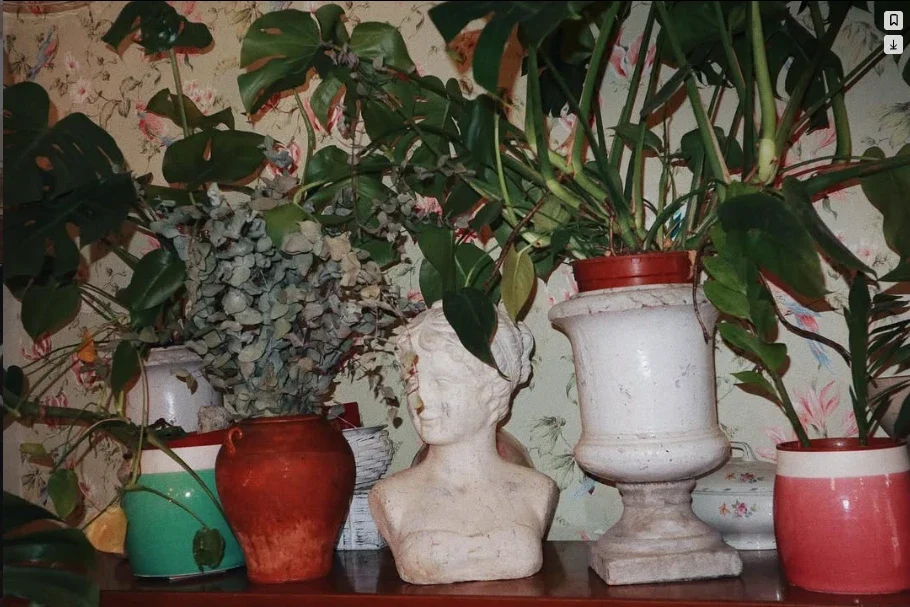
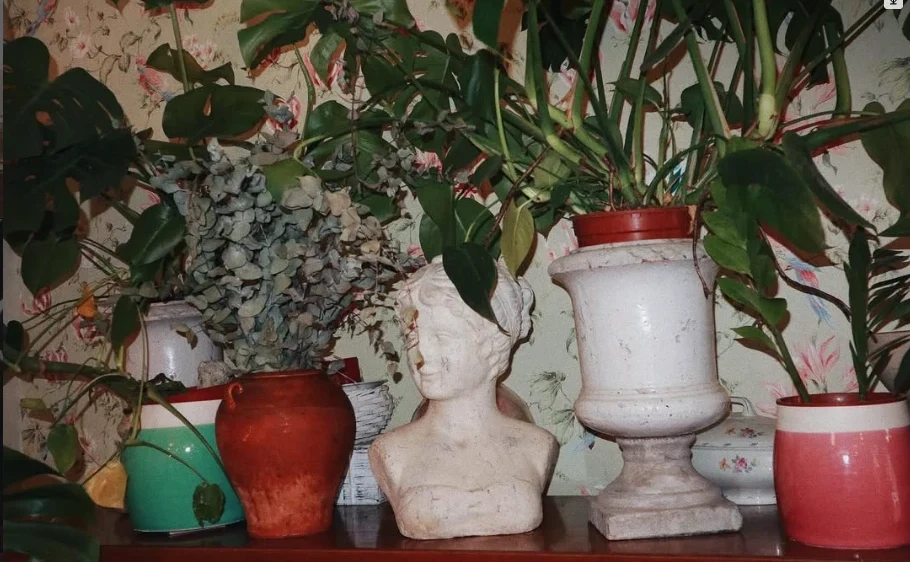
Usar las letras reales de rastro en el titular
Cinco letras (B, A, n, O y T) recortadas sobre transparente a partir
de las fotos, con una rampa de alfa por luminancia que deja limpios
los bordes y vacía las contraformas.

El titular del hero deja de ser texto con tipos distintos y pasa a ser
las letras de verdad, cada una con su altura, su giro y su sombra. La
segunda O es la galvanizada reflejada. La I y la C siguen como texto
hasta que lleguen sus recortes.

La foto de la pared de letras se va al muro y el hero enseña el rincón
del busto, para no repetir las mismas letras dos veces.

Claude-Session: https://claude.ai/code/session_017AvAiiBUR3TEeJEqdmiusp

diff --git a/assets/css/style.css b/assets/css/style.css
@@ -145,8 +145,8 @@ h2 + p,h2 + .sub,h2 + .addr,h2 + .lead{margin-top:1.4rem}
 
 /* ══════════ HERO ══════════ */
 .hero{
-  display:grid;grid-template-columns:1.1fr .9fr;align-items:center;
-  gap:clamp(26px,5vw,80px);
+  display:grid;grid-template-columns:1.25fr .75fr;align-items:center;
+  gap:clamp(26px,4vw,64px);
   padding:clamp(120px,16vh,180px) var(--pad) clamp(60px,9vh,100px);
 }
 .hero__cafe{
@@ -155,22 +155,29 @@ h2 + p,h2 + .sub,h2 + .addr,h2 + .lead{margin-top:1.4rem}
   margin:0 0 -.12em;padding-left:.12em;
 }
 
-/* letras desparejadas, como las de la pared */
-.word{display:flex;flex-wrap:wrap;align-items:flex-end;
-  font-size:clamp(3.4rem,10.5vw,8.4rem);line-height:.92;margin:0 0 .3em}
-.word .l{display:inline-block;transform-origin:50% 90%;margin-right:.035em}
-.word .l:last-child{margin-right:0}
-.l1{font-family:var(--cond);font-weight:700;color:var(--ink);transform:rotate(-3deg);margin-right:.07em}
-.l2{font-family:var(--serif);font-weight:300;color:var(--blue);font-size:1.06em;transform:rotate(2deg) translateY(.02em)}
-.l3{font-family:var(--cond);font-weight:600;color:var(--red);font-size:1.12em;transform:rotate(-1deg) translateY(-.03em);margin-right:.06em}
-.l4{font-family:var(--serif);font-weight:800;font-variation-settings:'WONK' 1,'SOFT' 100;color:var(--ink);font-size:.95em;transform:rotate(3deg)}
-.l5{font-family:var(--cond);font-weight:400;color:var(--sage);font-size:.8em;transform:rotate(-2deg) translateY(-.06em);margin-right:.08em}
-.l6{font-family:var(--serif);font-weight:600;font-style:italic;color:var(--red);font-size:1.08em;transform:rotate(4deg);margin-right:.09em}
-.l7{font-family:var(--cond);font-weight:500;color:var(--blue);font-size:.92em;transform:rotate(-4deg) translateY(.02em);margin-right:.07em}
-.l8{font-family:var(--serif);font-weight:600;color:var(--clay);font-size:1.04em;transform:rotate(1.5deg)}
+/* letras desparejadas: las de verdad, recortadas de la pared */
+.word{
+  --u:clamp(48px,7.8vw,110px);
+  display:flex;flex-wrap:wrap;align-items:flex-end;gap:0 .07em;
+  font-size:var(--u);line-height:1;margin:0 0 .42em;
+}
+.word .l{
+  height:calc(var(--u) * var(--h,1));width:auto;
+  transform:rotate(var(--rot,0deg));transform-origin:50% 92%;
+  filter:drop-shadow(0 7px 11px rgba(45,33,22,.2));
+}
+.word .flip{transform:rotate(var(--rot,0deg)) scaleX(-1)}
+/* provisional, hasta tener la I y la C recortadas */
+.word .fb{
+  font-family:'Anton',Impact,sans-serif;font-weight:400;
+  font-size:calc(var(--u) * var(--h,1) * .96);line-height:.82;
+  align-self:flex-end;filter:drop-shadow(0 7px 11px rgba(45,33,22,.2));
+}
+.word .fb--i{color:var(--red)}
+.word .fb--c{color:var(--blue)}
 
 .hero__pic{position:relative;justify-self:center;width:min(100%,470px)}
-.hero__pic .print img{aspect-ratio:909/480}
+.hero__pic .print img{aspect-ratio:910/607}
 .hero__seal{
   position:absolute;right:-6%;bottom:-13%;width:clamp(74px,8.5vw,112px);
   color:var(--ink);opacity:.85;

diff --git a/index.html b/index.html
@@ -161,7 +161,14 @@
     <p class="kicker rv">Pasaje del Ciclón · Zaragoza</p>
     <p class="hero__cafe rv">Café</p>
     <h1 class="word rv" aria-label="Botánico">
-      <span class="l l1">B</span><span class="l l2">O</span><span class="l l3">T</span><span class="l l4">Á</span><span class="l l5">N</span><span class="l l6">I</span><span class="l l7">C</span><span class="l l8">O</span>
+      <img class="l" style="--h:1;--rot:-2deg"          src="assets/img/letras/b.webp"  alt="" width="722" height="760">
+      <img class="l" style="--h:.74;--rot:2.5deg"       src="assets/img/letras/o2.webp" alt="" width="713" height="760">
+      <img class="l" style="--h:1.06;--rot:-1deg"       src="assets/img/letras/t.webp"  alt="" width="715" height="760">
+      <img class="l" style="--h:.96;--rot:2deg"         src="assets/img/letras/a.webp"  alt="" width="790" height="760">
+      <img class="l" style="--h:.58;--rot:-3deg"        src="assets/img/letras/n.webp"  alt="" width="749" height="760">
+      <span class="l fb fb--i" style="--h:.92;--rot:3deg">I</span>
+      <span class="l fb fb--c" style="--h:.8;--rot:-3deg">C</span>
+      <img class="l flip" style="--h:.86;--rot:1.5deg"  src="assets/img/letras/o2.webp" alt="" width="713" height="760">
     </h1>
     <p class="lead rv">Bizcochos y tartitas que salen del horno aquí mismo. Café por la mañana, té por la tarde y cócteles cuando el pasaje se queda a media luz.</p>
     <div class="row rv">
@@ -172,8 +179,8 @@
 
   <div class="hero__pic rv">
     <figure class="print print--tape" style="--rot:-2.2deg">
-      <img src="assets/img/letras.webp" alt="Pared del café con las letras de BOTANICO recuperadas, cada una de un tipo distinto, entre plantas" width="909" height="480">
-      <figcaption>la pared de las letras</figcaption>
+      <img src="assets/img/papel.webp" alt="Rincón del café: papel pintado floral, un busto de escayola y macetas de barro entre monsteras" width="910" height="607">
+      <figcaption>el rincón del busto</figcaption>
     </figure>
     <svg class="hero__seal" viewBox="0 0 300 320" aria-hidden="true"><use href="#mark"/></svg>
   </div>
@@ -191,7 +198,7 @@
 <section class="sec casa" id="casa">
   <div class="casa__pics">
     <figure class="print rv" style="--rot:1.8deg">
-      <img src="assets/img/papel.webp" alt="Rincón del café: papel pintado floral, un busto de escayola y macetas de barro entre monsteras" width="910" height="607">
+      <img src="assets/img/letras.webp" alt="Pared del café con las letras de BOTANICO recuperadas, cada una de un tipo distinto, entre plantas" width="909" height="480">
     </figure>
     <figure class="print print--sm rv" style="--rot:-3.5deg">
       <img src="assets/img/sala.webp" alt="Interior del café con mural pintado y mesas redondas">

diff --git a/README.md b/README.md
@@ -12,8 +12,9 @@ python3 -m http.server 4321
 Sacada de su Instagram, no de una plantilla:
 
 - **Pared crema con grano de carrete** sobre toda la página.
-- **Letras desparejadas** en el titular, cada una de un tipo, cuerpo, color e
-  inclinación distintos — como las letras de rastro de la pared del local.
+- **Letras desparejadas** en el titular: son fotos de letras de rastro
+  recortadas sobre transparente, una por archivo, en `assets/img/letras/`.
+  Cada una lleva su propia altura, giro y sombra.
 - **Fotos como copias de laboratorio**: borde blanco, giro ligero, sombra y, en
   el hero, un trozo de cinta de carrocero.
 - **Papel pintado floral** de fondo en "La casa", dibujado en SVG.
@@ -67,3 +68,8 @@ assets/img/            fotos
 - **Textos**: redactados a ojo, a validar con el local.
 - **Fotos**: casi todas son recortes de la retícula de Instagram, de baja
   resolución. Hacen falta los originales.
+- **Letras del titular**: faltan la **I** y la **C**. Ahora mismo van como
+  texto plano en Anton, en rojo y azul, que canta al lado de las otras seis.
+  La segunda **O** es la galvanizada reflejada, a la espera de la blanca.
+- **Dibujo del logo**: la intro sigue usando el SVG redibujado. Pendiente de
+  sustituirlo por el dibujo definitivo.
